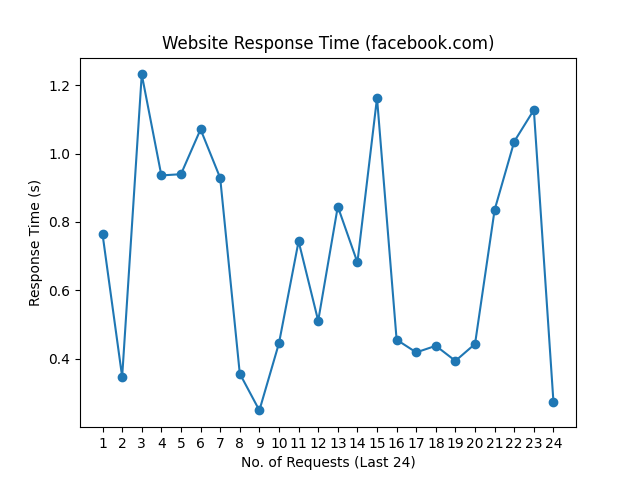
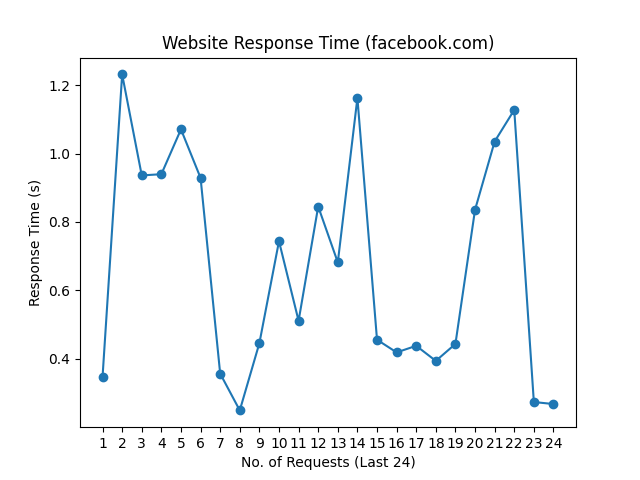
update README.md, history and graph

Changed region(s): [[0.1562, 0.125, 0.875, 0.875]]

diff --git a/README.md b/README.md
@@ -1,10 +1,10 @@
 # Web Monitoring
 
-Last Checked: 14/11/2024 08:19
+Last Checked: 15/11/2024 08:21
 
 | Website | Response Time (s) | Status | Avg Uptime (%) |
 |---------|-------------------|--------|----------------|
 | www.thiswebsiteisdown.net | 0 <br> <img src="graph/thiswebsiteisdown.net.png" alt="Graph" width="200" height="200">  | ❌ Down | 0.00 |
-| www.netflix.com | 0.782668 <br> <img src="graph/netflix.com.png" alt="Graph" width="200" height="200">  | ✅ Up | 100.00 |
-| www.google.com | 0.078334 <br> <img src="graph/google.com.png" alt="Graph" width="200" height="200">  | ✅ Up | 100.00 |
-| www.facebook.com | 0.273716 <br> <img src="graph/facebook.com.png" alt="Graph" width="200" height="200">  | ✅ Up | 100.00 |
+| www.netflix.com | 0.828491 <br> <img src="graph/netflix.com.png" alt="Graph" width="200" height="200">  | ✅ Up | 100.00 |
+| www.google.com | 0.063728 <br> <img src="graph/google.com.png" alt="Graph" width="200" height="200">  | ✅ Up | 100.00 |
+| www.facebook.com | 0.267841 <br> <img src="graph/facebook.com.png" alt="Graph" width="200" height="200">  | ✅ Up | 100.00 |
